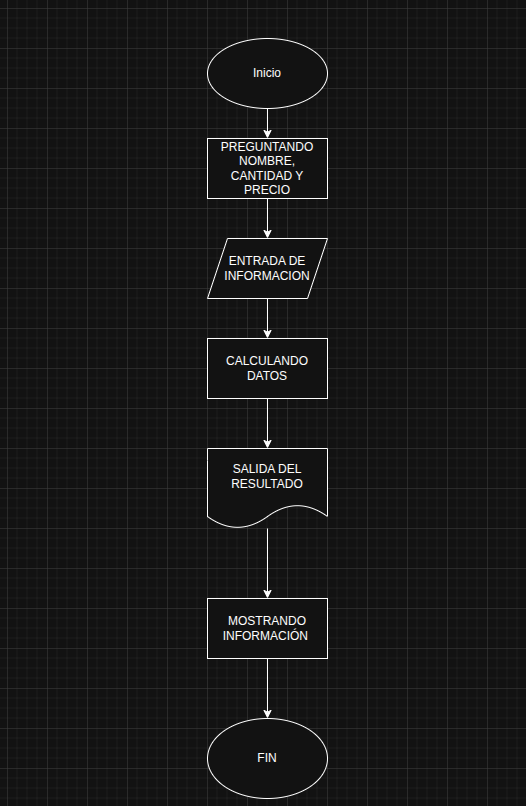
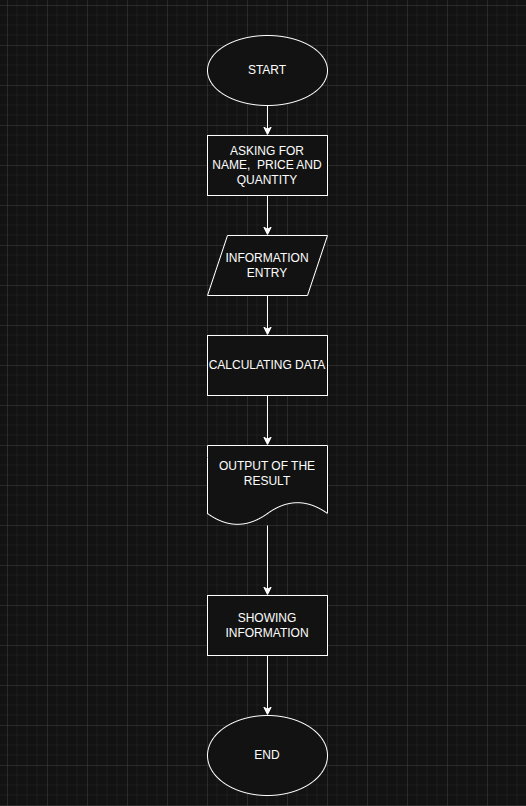
Cambiando diagrama de flujo y inventario  a ingles

diff --git a/Inventario.py b/Inventario.py
@@ -1,19 +1,19 @@
 #Inventario del producto y pregunta al usuario por el nombre del producto, precio y cantidad. 
-producto = str(input("Ingrese el nombre del producto: "))
-precio = float(input("Ingrese el precio del producto: "))
-cantidad = int (input("Ingrese la cantidad del producto: "))
+product = str(input("Enter the product name: "))
+price = float(input("Enter the product price: "))
+quantity = int (input("Enter the product quantity: "))
 #Validando que el precio y la cantidad sean no negativos y que el nombre del producto contenga solo letras
-if precio < 0 or cantidad < 0:
-     print("El precio y la cantidad deben ser no negativos. Por favor, intente de nuevo.")
-elif producto.isalpha() == False:
-        print("El nombre del producto debe contener solo letras. Por favor, intente de nuevo.")
+if price < 0 or quantity < 0:
+     print("The price and quantity must be non-negative. Please try again.")
+elif product.isalpha() == False:
+        print("The product name must contain only letters. Please try again.")
 #Mostrabndo el costo total del producto        
-Costo_total = precio * cantidad
-print("el costo total del producto es: ", Costo_total)
+Costo_total = price * quantity
+print("The total cost of the product is: ", Costo_total)
 # Mostrar los datos de ingreso y total 
-print ("el producto es: ", producto)
-print ("el precio es de: ", precio)
-print ("la cantidad es: ", cantidad)
-print ("el costo total del producto es: ", Costo_total)
+print ("The product is: ", product)
+print ("The price is: ", price)
+print ("The quantity is: ", quantity)
+print ("The total cost of the product is:  ", Costo_total)
  
 #Bueno el codigo es breve de explicar, se pide al usuario que productos, precio y cantidad desea para luego calcular el costo total del producto y mostrar los datos ingresados y el costo total. Se valida que el precio y la cantidad sean no negativos y que el nombre del producto contenga solo letras.
